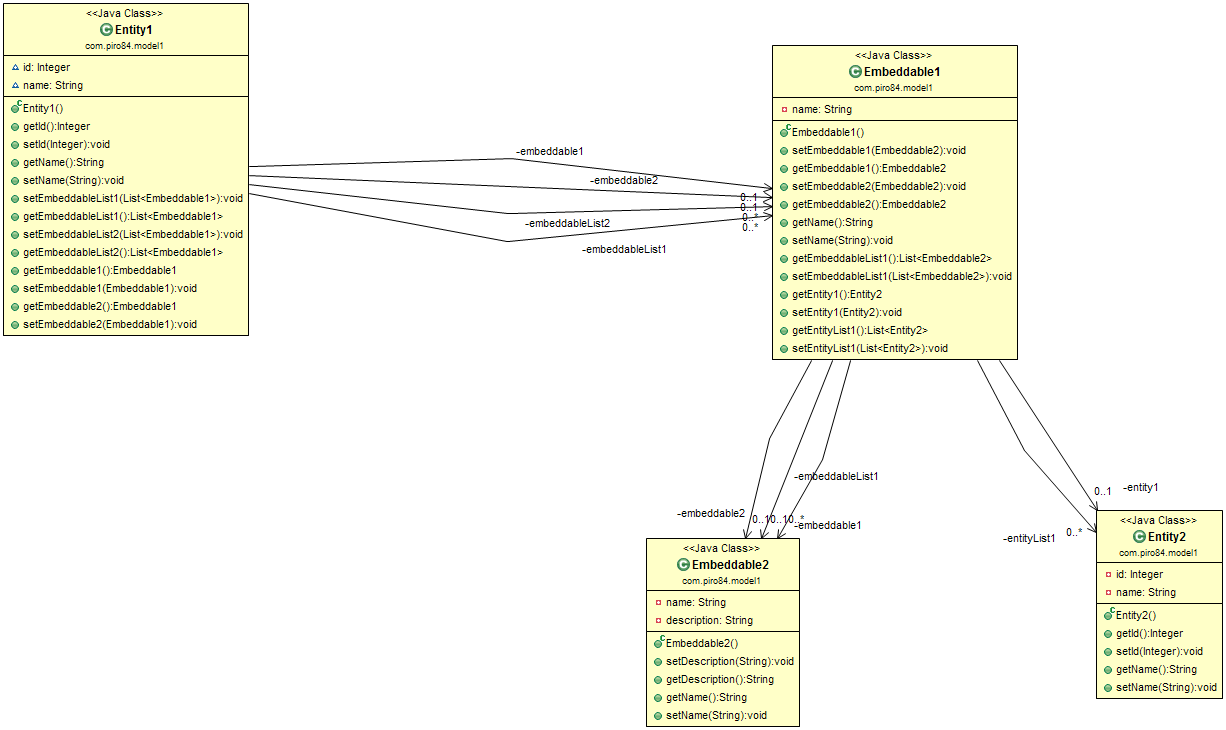
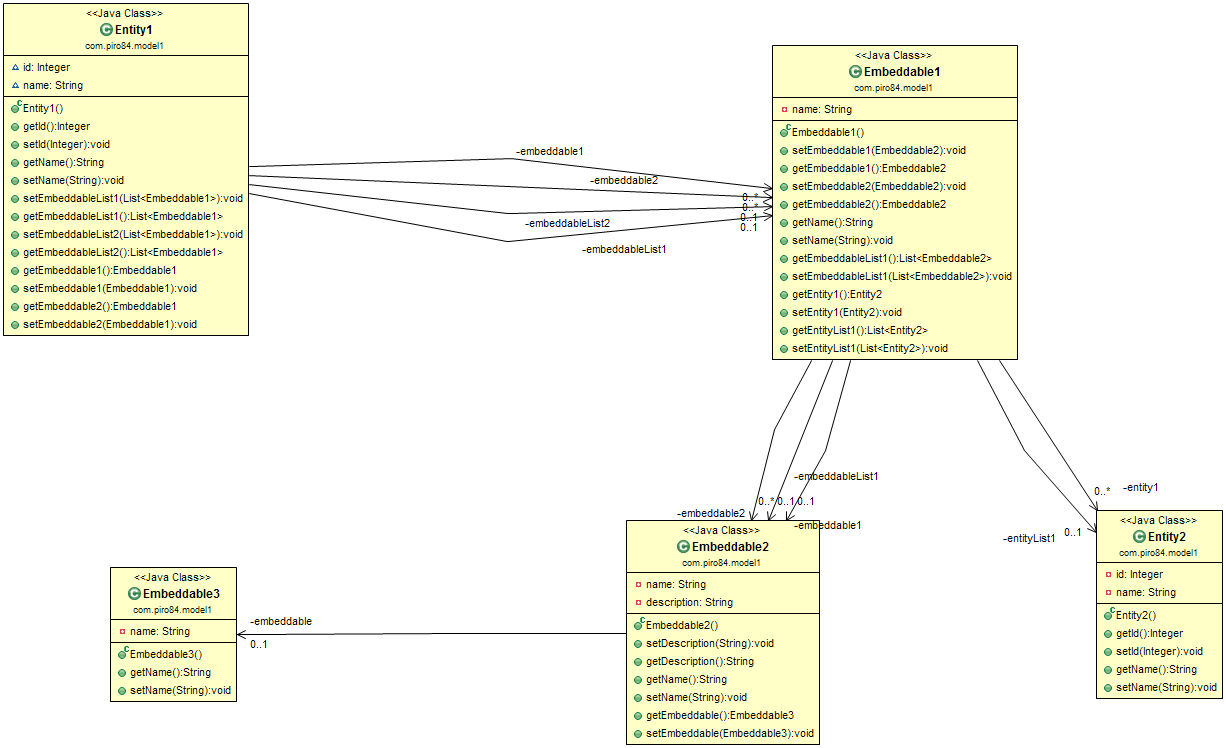
-added Embeddable3 to test @AttributeOverrides with multiple level value object nesting

Changed region(s): [[0.0, 0.0, 1.0, 1.0], [0.062, 0.7534, 0.248, 0.9644], [0.279, 0.8438, 0.3719, 0.874]]

diff --git a/hibernate.composition/src/main/java/com/piro84/model1/Entity1.java b/hibernate.composition/src/main/java/com/piro84/model1/Entity1.java
@@ -65,6 +65,8 @@ public class Entity1 {
     	@AttributeOverride( name = "embeddable1.description", column = @Column( name = "embeddable1_city_description", nullable = true )),
     	@AttributeOverride( name = "embeddable2.name", column = @Column( name = "embeddable1_country_name", nullable = true ) ),
     	@AttributeOverride( name = "embeddable2.description", column = @Column( name = "embeddable1_country_description", nullable = true )),
+    	@AttributeOverride( name = "embeddable1.embeddable.name", column = @Column( name = "embeddable1_embeddable2_embeddable_name1", nullable = true )),
+    	@AttributeOverride( name = "embeddable2.embeddable.name", column = @Column( name = "embeddable1_embeddable2_embeddable_name2", nullable = true )),
     	@AttributeOverride( name = "name", column = @Column( name = "embeddable1_address_name", nullable = true )),
     	@AttributeOverride( name = "entity1.id", column = @Column(name = "bunkerAddress_housemate_id", nullable = true ))} )
     @AssociationOverride(name = "entity1", joinColumns = @JoinColumn(name = "embeddable1_entity1_id"))
@@ -79,6 +81,8 @@ public class Entity1 {
     	@AttributeOverride( name = "embeddable1.description", column = @Column(name = "embeddable2_city_description", nullable = true )),
     	@AttributeOverride( name = "embeddable2.name", column = @Column(name = "embeddable2_country_name", nullable = true ) ),
     	@AttributeOverride( name = "embeddable2.description", column = @Column( name = "embeddable2_country_description", nullable = true )),
+    	@AttributeOverride( name = "embeddable2.embeddable.name", column = @Column( name = "embeddable2_embeddable2_embeddable_name1", nullable = true )),
+    	@AttributeOverride( name = "embeddable2.embeddable.name", column = @Column( name = "embeddable2_embeddable2_embeddable_name2", nullable = true )),
     	@AttributeOverride( name = "name", column = @Column(name = "embeddable2_address_name", nullable = true ))} )
     @AssociationOverride(name = "entity1", joinColumns = @JoinColumn(name = "embeddable2_entity1_id"))
     private Embeddable1 embeddable2;

diff --git a/hibernate.composition/src/main/java/com/piro84/model1/Embeddable1.java b/hibernate.composition/src/main/java/com/piro84/model1/Embeddable1.java
@@ -33,12 +33,14 @@ public class Embeddable1 {
 	 */
     @Embedded
     @AttributeOverrides( { @AttributeOverride( name = "description", column = @Column( name = "city_description", nullable = true ) ),
-    	@AttributeOverride( name = "name", column = @Column( name = "city_name", nullable = true ) )} )
+    	@AttributeOverride( name = "name", column = @Column( name = "city_name", nullable = true ) ),
+    	@AttributeOverride( name = "embeddable.name", column = @Column( name = "embeddable1_embeddable_name", nullable = true ) )} )
     private Embeddable2 embeddable1;
 
     @Embedded
     @AttributeOverrides( { @AttributeOverride( name = "description", column = @Column( name = "country_description", nullable = true ) ),
-    	@AttributeOverride( name = "name", column = @Column( name = "country_name", nullable = true ) )} )
+    	@AttributeOverride( name = "name", column = @Column( name = "country_name", nullable = true ) ),
+    	@AttributeOverride( name = "embeddable.name", column = @Column( name = "embeddable2_embeddable_name", nullable = true ) )} )
     private Embeddable2 embeddable2;
     
     

diff --git a/hibernate.composition/src/main/java/com/piro84/model1/Embeddable2.java b/hibernate.composition/src/main/java/com/piro84/model1/Embeddable2.java
@@ -3,8 +3,11 @@
  */
 package com.piro84.model1;
 
+import javax.persistence.AttributeOverride;
+import javax.persistence.AttributeOverrides;
 import javax.persistence.Column;
 import javax.persistence.Embeddable;
+import javax.persistence.Embedded;
 
 /**
  * A simple object that models an address field.
@@ -16,6 +19,10 @@ public class Embeddable2 {
 	
     @Column( name = "content" )
     private String description;
+    
+    @Embedded
+    @AttributeOverrides( { @AttributeOverride( name = "name", column = @Column( name = "embeddable_name", nullable = true ) )} )
+    private Embeddable3 embeddable;
 
     /**
      * Accessor method.
@@ -41,5 +48,13 @@ public class Embeddable2 {
 
 	public void setName(String name) {
 		this.name = name;
+	}
+
+	public Embeddable3 getEmbeddable() {
+		return embeddable;
+	}
+
+	public void setEmbeddable(Embeddable3 embeddable) {
+		this.embeddable = embeddable;
 	}
 }

diff --git a/hibernate.composition/src/main/java/com/piro84/model1/Embeddable3.java b/hibernate.composition/src/main/java/com/piro84/model1/Embeddable3.java
@@ -1,0 +1,25 @@
+/**
+ * (C) 2013, Trapeze Switzerland GmbH. All rights reserved.
+ */
+package com.piro84.model1;
+
+import javax.persistence.Column;
+import javax.persistence.Embeddable;
+
+/**
+ * A simple object that models an address field.
+ */
+@Embeddable
+public class Embeddable3 {
+	@Column( name = "name" )
+	private String name;
+	
+
+	public String getName() {
+		return name;
+	}
+
+	public void setName(String name) {
+		this.name = name;
+	}
+}
